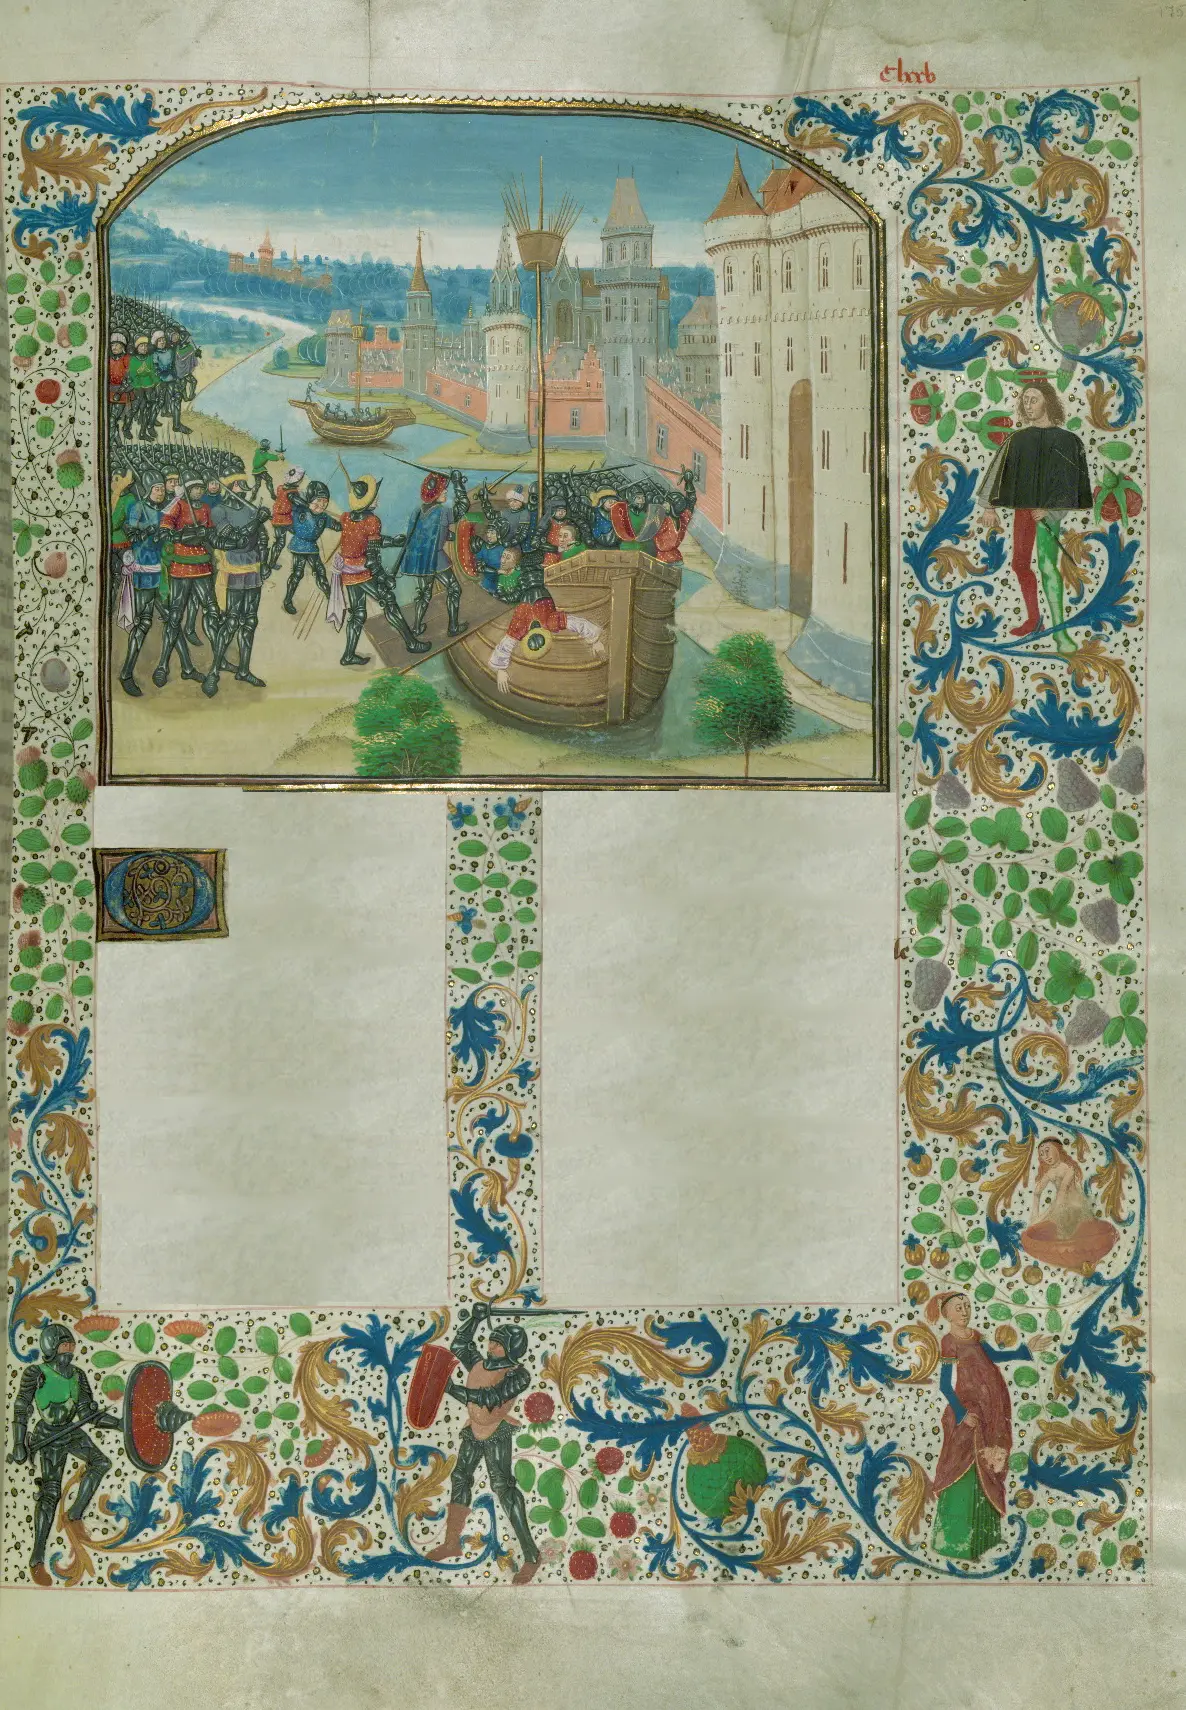
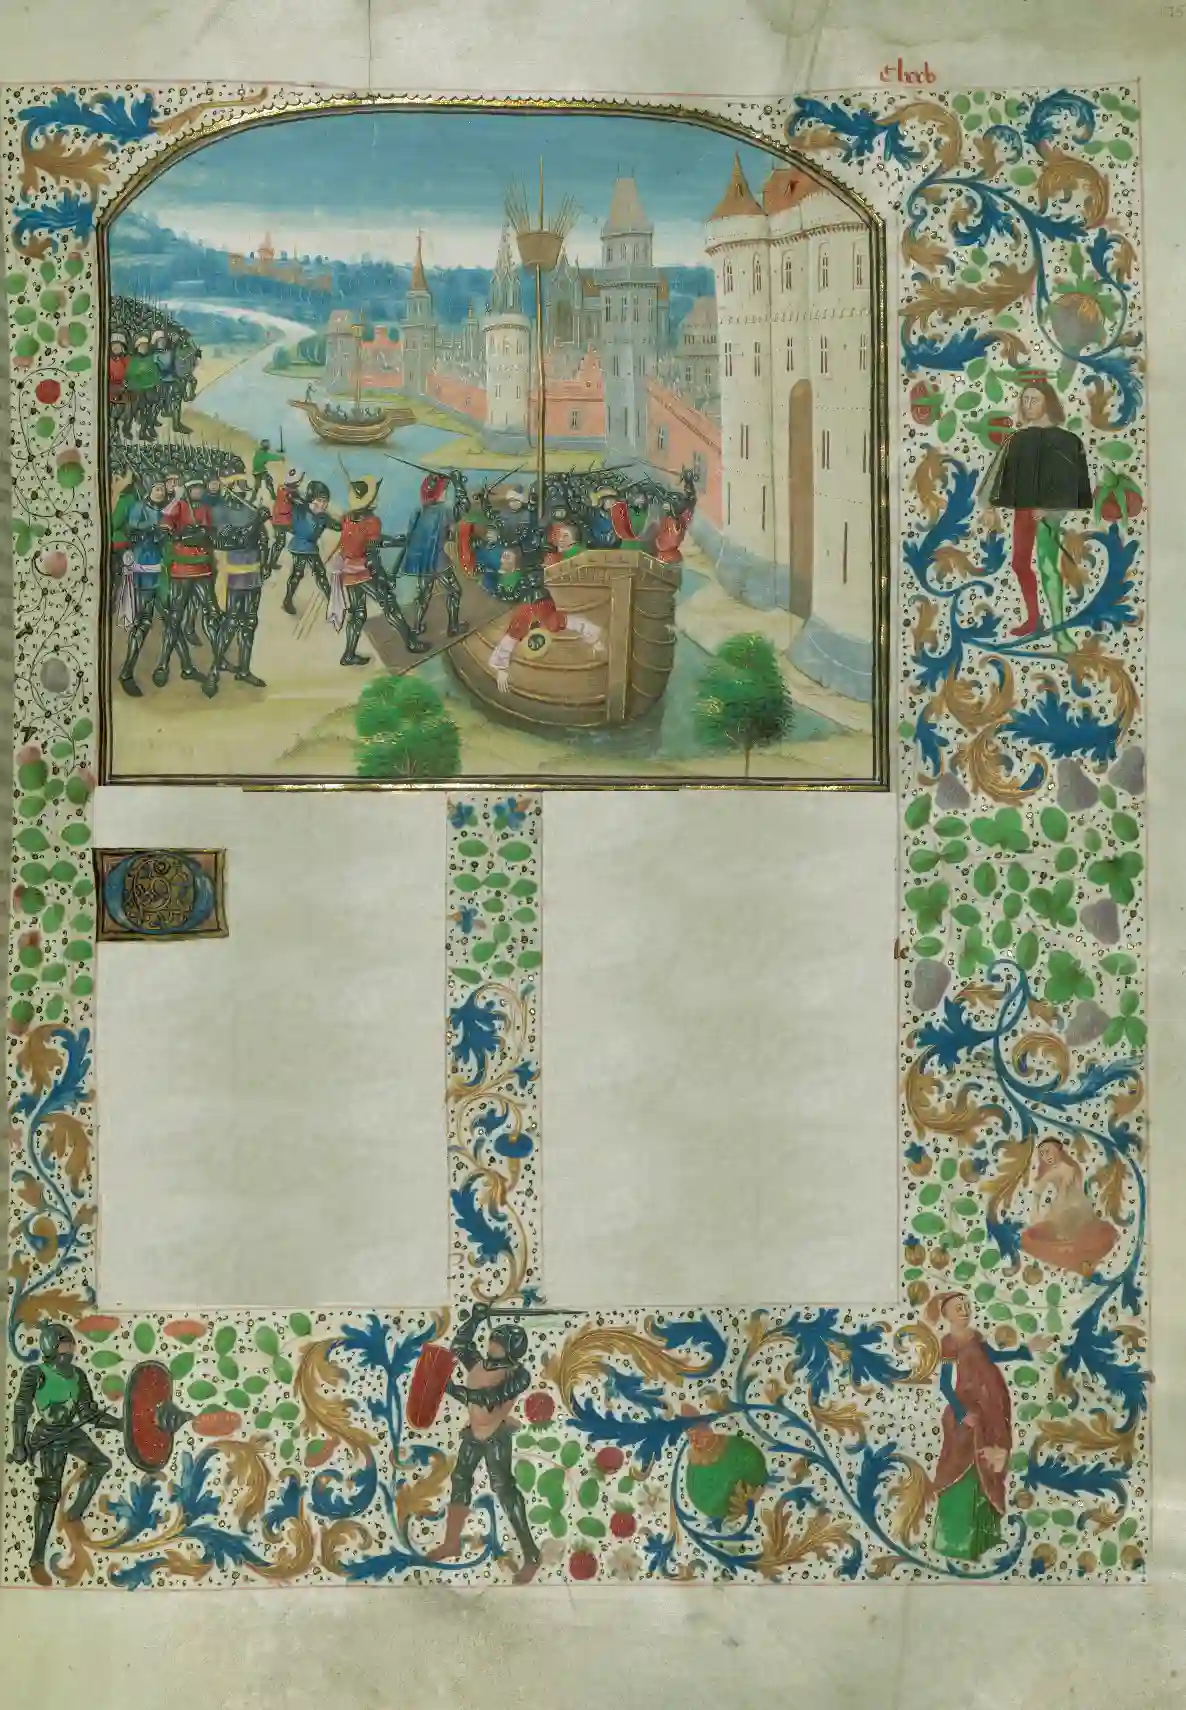
jpg test

diff --git a/war.html b/war.html
@@ -7,7 +7,7 @@
              </head>
       <style>
      body {
-        background-image: url("Images/Boats.webp");
+        background-image: url("Images/Boats.jpg");
     }
      p{
          font-size:25px;
